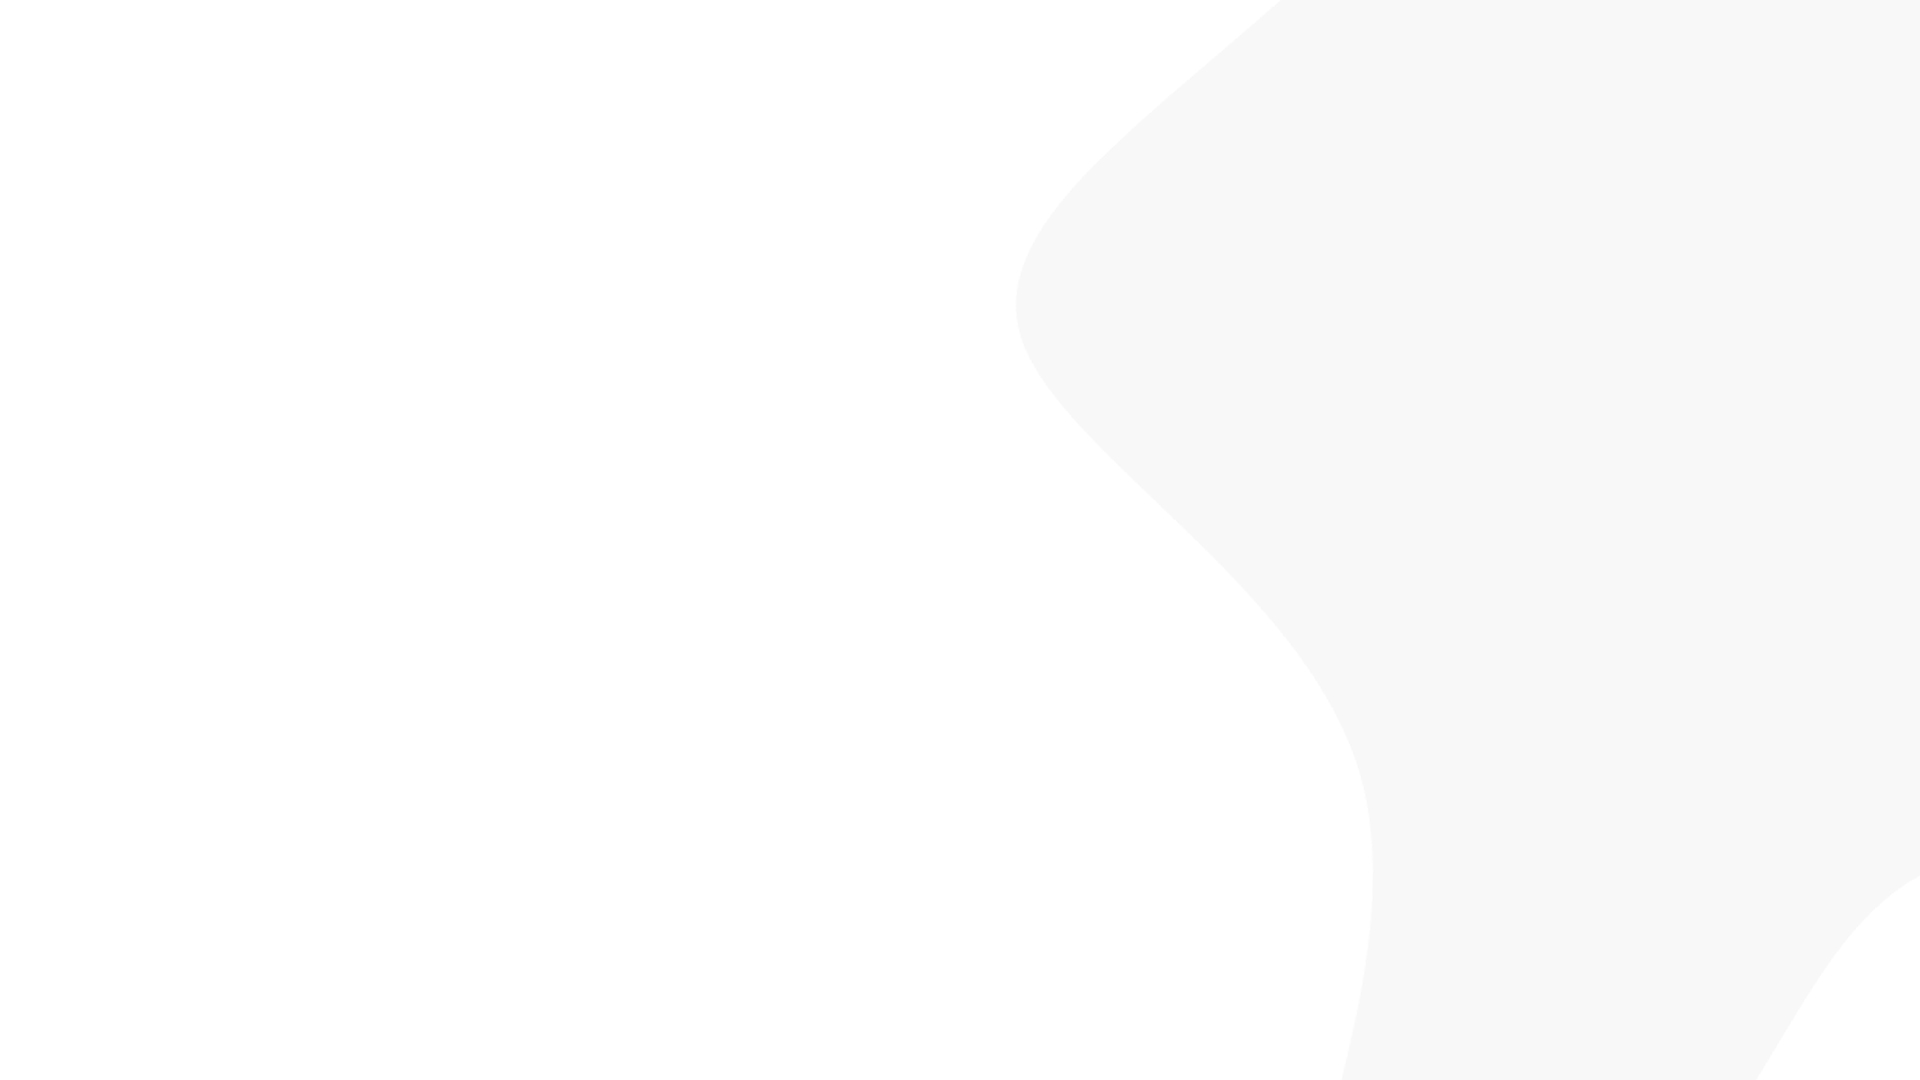
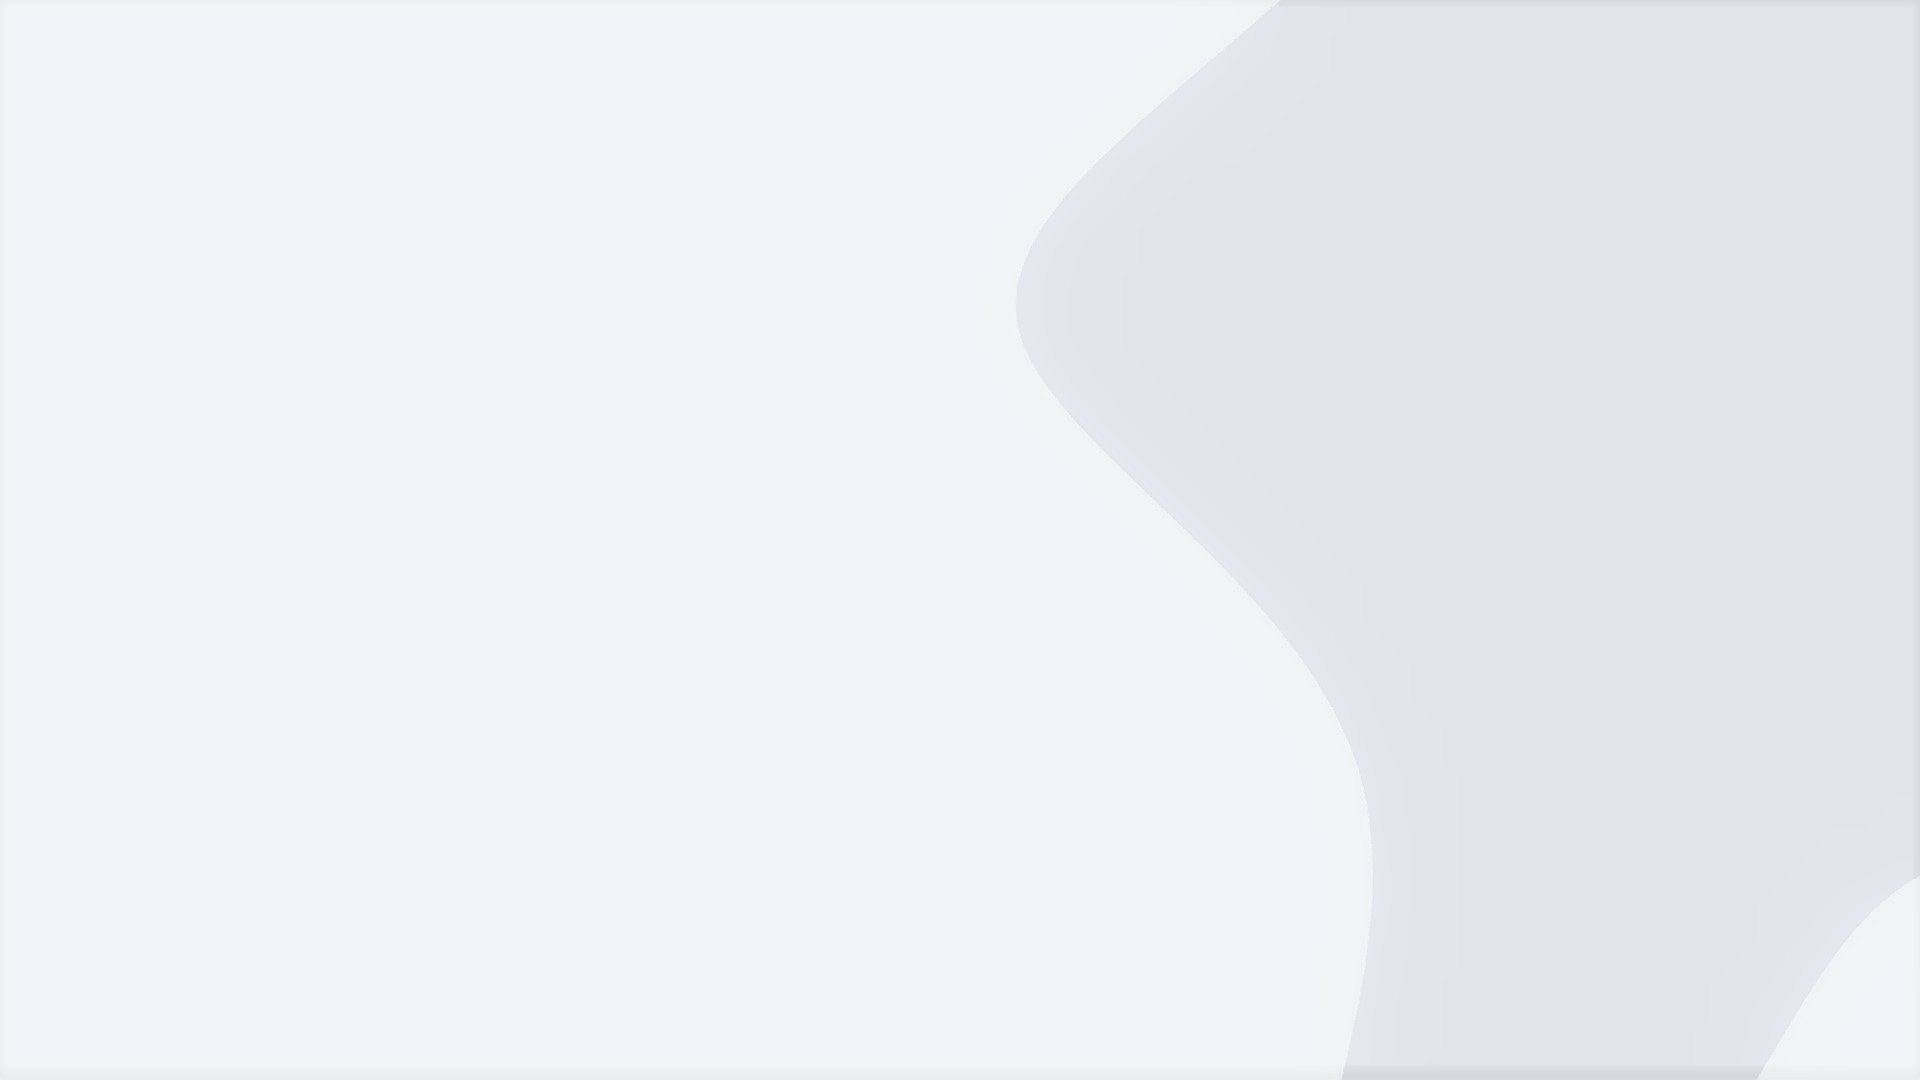
R03 - configuração do terceiro bloco

Changed region(s): [[0.6562, 0.0, 1.0, 0.7944], [0.6875, 0.9778, 0.9375, 1.0]]

diff --git a/index.html b/index.html
@@ -5,7 +5,7 @@
     <meta http-equiv="X-UA-Compatible" content="IE=edge">
     <meta name="viewport" content="width=device-width, initial-scale=1.0">
     <title>Home - Techmax</title>
-   <!--  <link rel="stylesheet" href="reset.css"> -->
+    <link rel="stylesheet" href="reset.css">
     <link rel="preconnect" href="https://fonts.googleapis.com">
     <link rel="preconnect" href="https://fonts.googleapis.com">
     <link rel="preconnect" href="https://fonts.gstatic.com" crossorigin>
@@ -18,14 +18,14 @@
         <header class="header-1"> 
             <h1 class="title-1">TECHMAX</h1>
             <nav class="nav-1">
-                <a class="an-1" href="#">Home</a>
-                <a class="an-1" href="#">About Us</a>
-                <a class="an-1" href="#">Services</a>
-                <a class="an-1" href="#">Pages</a>
-                <a class="an-1" href="#">Blog</a>
-                <a class="an-1" href="#">Contact</a>
+                <a href="#">Home</a>
+                <a href="#">About Us</a>
+                <a href="#">Services</a>
+                <a href="#">Pages</a>
+                <a href="#">Blog</a>
+                <a href="#">Contact</a>
             </nav>
-            <div>
+            <div class="div-2-buttons">
             <button class="button-blue button-log" onclick="window.location.href='http://google.com'">
                 Log In</button>
             <button class="button-blue button-get">Get Quotes</button>
@@ -37,29 +37,31 @@
                 tincidunt sit amet ultricies vitae, varius id mauris. Sed et luctus 
                 urna. Cras sed lobortis nulla. Orci varius natoque penatibus et magnis 
                 dis parturient montes, nascetur ridiculus mus. 
-                <br>
             </p>
+            <div class="div-3-buttons">
             <button class="button-white">Learn More</button>
             <button class="button-blue">Contact Us</button></div>
-            <img class="img-bsc" src="./images/home-font.png"
+        </div>
+            <img class="img-bsc" src="./images/home-font.png">
         </div>
         </div>
 <div class="div-it">
     <div>
-        <image src="./images/icon-1.png"></image>
+     <image class="figure-it" src="./images/icon-1.png"></image>
        <h3>IT Solution</h3> 
        <p>Lorem ipsum dolor sit amet, consectetur adipiscing elit. Nam nunc elit, 
         tincidunt sit amet ultricies vitae, varius id mauris.</p>
         <a href="#">Read More</a>
     </div>
     <div>
-    <image src="./images/icon-2.png"></image>
+<image class="figure-it" src="./images/icon-2.png"></image>
     <h3>Web Development</h3> 
     <p>Lorem ipsum dolor sit amet, consectetur adipiscing elit. Nam nunc elit, 
      tincidunt sit amet ultricies vitae, varius id mauris.</p>
      <a href="#">Read More</a></div>
      <div>
-        <image src="./images/icon-3.png"></image>
+    
+  <image class="figure-it" src="./images/icon-3.png"></image>
         <h3>Networking Services</h3> 
         <p>Lorem ipsum dolor sit amet, consectetur adipiscing elit. Nam nunc elit, 
          tincidunt sit amet ultricies vitae, varius id mauris.</p>
@@ -78,7 +80,7 @@
     <image src="./images/choose-1.png"></image>
 </div>
 <div>
-<img src="./images/choose-2.png"
+<img src="./images/choose-2.png">
 <div><h1>Tech Soul for your Business</h1>
 <p>Lorem ipsum dolor sit amet, consectetur adipiscing elit. Nam nunc elit, 
     tincidunt sit amet ultricies vitae, varius id mauris.</p>
@@ -117,21 +119,21 @@
 <div>
 <h1>Our Client Say</h1>
 <div>
-    <image src="./images/image-star.PNG"
+    <image src="./images/image-star.PNG"></image>
     <p>Lorem ipsum dolor sit amet, consectetur adipiscing elit. Nam nunc elit, 
         tincidunt sit amet ultricies vitae, varius id mauris.</p>
         <image src="./images/member-1.JPG"></image>
         <h1>Mario Houston<br><span>Social Worker</span></h1>
 </div>
 <div>
-    <image src="./images/image-star.PNG"
+    <image src="./images/image-star.PNG"></image>
     <p>Lorem ipsum dolor sit amet, consectetur adipiscing elit. Nam nunc elit, 
         tincidunt sit amet ultricies vitae, varius id mauris.</p>
         <image src="./images/member-2.JPG"></image>
         <h1>Stanley Tate<br><span>Web Developer</span></h1>
 </div>
 <div>
-    <image src="./images/image-star.PNG"
+    <image src="./images/image-star.PNG"></image>
     <p>Lorem ipsum dolor sit amet, consectetur adipiscing elit. Nam nunc elit, 
         tincidunt sit amet ultricies vitae, varius id mauris.</p>
         <image src="./images/member-3.JPG"></image>
@@ -147,7 +149,7 @@
 <div>
     <h1>Recent Blog & Article</h1>
     <figure>
-        <image src="./images/artic-1.PNG"
+        <image src="./images/artic-1.PNG"></image>
         <figcaption>The Biggest Treds in Technology We've Seen This Year 
             <p>Lorem ipsum dolor sit amet, consectetur adipiscing elit. Nam nunc elit, 
                 tincidunt sit amet ultricies vitae, varius id mauris.</p>
@@ -155,7 +157,7 @@
         <button>Continue Reading</button>
     </figure>
     <figure>
-        <image src="./images/artic-2.PNG"
+        <image src="./images/artic-2.PNG"></image>
         <figcaption>Why We Love Technology (And You Should, Too!) 
             <p>Lorem ipsum dolor sit amet, consectetur adipiscing elit. Nam nunc elit, 
                 tincidunt sit amet ultricies vitae, varius id mauris.</p>
@@ -163,7 +165,7 @@
         <button>Continue Reading</button>
     </figure>
     <figure>
-        <image src="./images/artic-3.PNG"
+        <image src="./images/artic-3.PNG"></image>
         <figcaption>The 17 Most Misunderstood Facts About Technology 
             <p>Lorem ipsum dolor sit amet, consectetur adipiscing elit. Nam nunc elit, 
                 tincidunt sit amet ultricies vitae, varius id mauris.</p>

diff --git a/style.css b/style.css
@@ -1,36 +1,38 @@
 :root {
-    --bluebutton: rgb(85, 122, 255)
-    --blackfonts: rgba(32, 31, 31, 0.966)
+    --bluebutton: #5E87EB;
+    --blackfonts: rgba(32, 31, 31, 0.966);
 }
 
 
 body {
 font-family:'Cabin', sans-serif;
-width: 1386px;
-height: 6052px;
-margin-top: 0px;
-
+margin: 0;
+display: block;
+width: 100%;
 }
 
 .div-1 {
-    padding-left: 50px;
-    padding-right: 50px;
+/*     padding-left: 150px;
+    padding-right: 150px; pq o padding não funciona aqui?*/
+    width: 100%;
+    max-width: 1386px;
+    min-width: 1000px;
+    margin: 0px auto; /*coloco auto para que ele sempre centralize na tela  */ 
 }
 
 .header-1 {
     width: 100%;
     height:15px;
-    padding-top: 20px;
+    padding-top: 35px;
     display: flex;
     flex-direction: row;
     justify-content: space-between;
     align-items: center;
 }
 
-
 .title-1 {
-    font-size: 25px;
- 
+    font-size: 30px;
+    font-weight: bold;
 }
 
 .nav-1 {
@@ -40,38 +42,52 @@ margin-top: 0px;
     justify-content: space-around;
 }
 
-.an-1 {
-    font-size: 15px;
+.nav-1 a {
+    font-size: 16px;
     color: rgba(32, 31, 31, 0.966);
     text-decoration: none;
 }
 
+.div-2-buttons{
+    width: 220px;
+    display: flex;
+    flex-direction: row;
+    justify-content: space-between;
+}
+
+.div-3-buttons{
+    width: 250px;
+    display: flex;
+    flex-direction: row;
+    justify-content: space-between;
+}
+
 .button-white {
     background-color: rgb(255, 255, 255);
-    color: rgb(85, 122, 255);
+    color: var(--bluebutton);
     border-radius: 50px;
-    font-size: 12px;
-    padding: 10px 20px 10px 20px;
+    font-size: 14px;
+    padding: 12px 22px 12px 22px;
     border: 0px;
     box-shadow: 0px 0px 5px 5px rgb(234, 235, 238);
 }
 
 .button-blue {
-    background-color: rgb(85, 122, 255);
+    background-color:var(--bluebutton);
     color: white;
     border-radius: 50px;
-    font-size: 12px;
-    padding: 10px 20px 10px 20px;
-    border: 0px;
-    margin-left: 20px;
+    font-size: 14px;
+    padding: 12px 22px 12px 22px;
+    border: none;
 }
 
 .div-2 {
-padding-left: 100px;
-padding-right: 100px;
+padding-left: 120px;
+padding-right: 120px;
 background: url(./images/home-bg.jpg);
 background-repeat: no-repeat;
-background-size: 100%
+background-size: 100%;
+height: 650px;
 }
 
 .div-3 {
@@ -80,15 +96,26 @@ background-size: 100%
     justify-content: space-between;
     align-items: center;
     margin-top: 50px;
-    margin-bottom: 50px;
+}
+
+.div-3 h1{
+    font-size: 38px;
+    font-weight: bold;
+    line-height: 45px;
+}
+.div-3 p{
+    margin-top: 20px;
+    margin-bottom: 30px;
+    line-height: 25px;
+    font-size: 16px;
 }
 
 .div-4 {
-width: 450px;
+width: 500px;
 }
 
 .span-1 {
-    color: rgba(85, 122, 255, 0.842);
+    color: var(--bluebutton);
 }
 
 .img-bsc {
@@ -101,6 +128,43 @@ p {
 }
 
 .div-it {
-    
-    
+    background-color: #F1F5F8;
+    padding-left: 120px;
+    padding-right: 120px;
+    height: 500px;
+    display: flex;
+    flex-direction: row;
+    justify-content: space-between;
+    align-items: center;
+}
+
+.div-it div{
+    background-color:  #fff;
+    width: 280px;
+    height: 280px;
+    border-radius: 10px;
+    border: 0px;
+    box-shadow: 0px 0px 5px 5px rgb(234, 235, 238);
+    padding: 35px;
+    font-size: 16px;
+    display: flex;
+    flex-direction: column;
+    justify-content: space-evenly;
+    align-items: center;
+    line-height: 30px;
+    color: var(--blackfonts);
+}
+
+.div-it h3{
+    font-weight: bold;
+    font-size: 18px;
+}
+
+.figure-it {
+background-color: #F1F5F8 ;
+    width: 50px;
+    height: 50px;
+    border-radius: 50px;
+    padding: 10px;
+    margin-bottom: 20px;
 }
